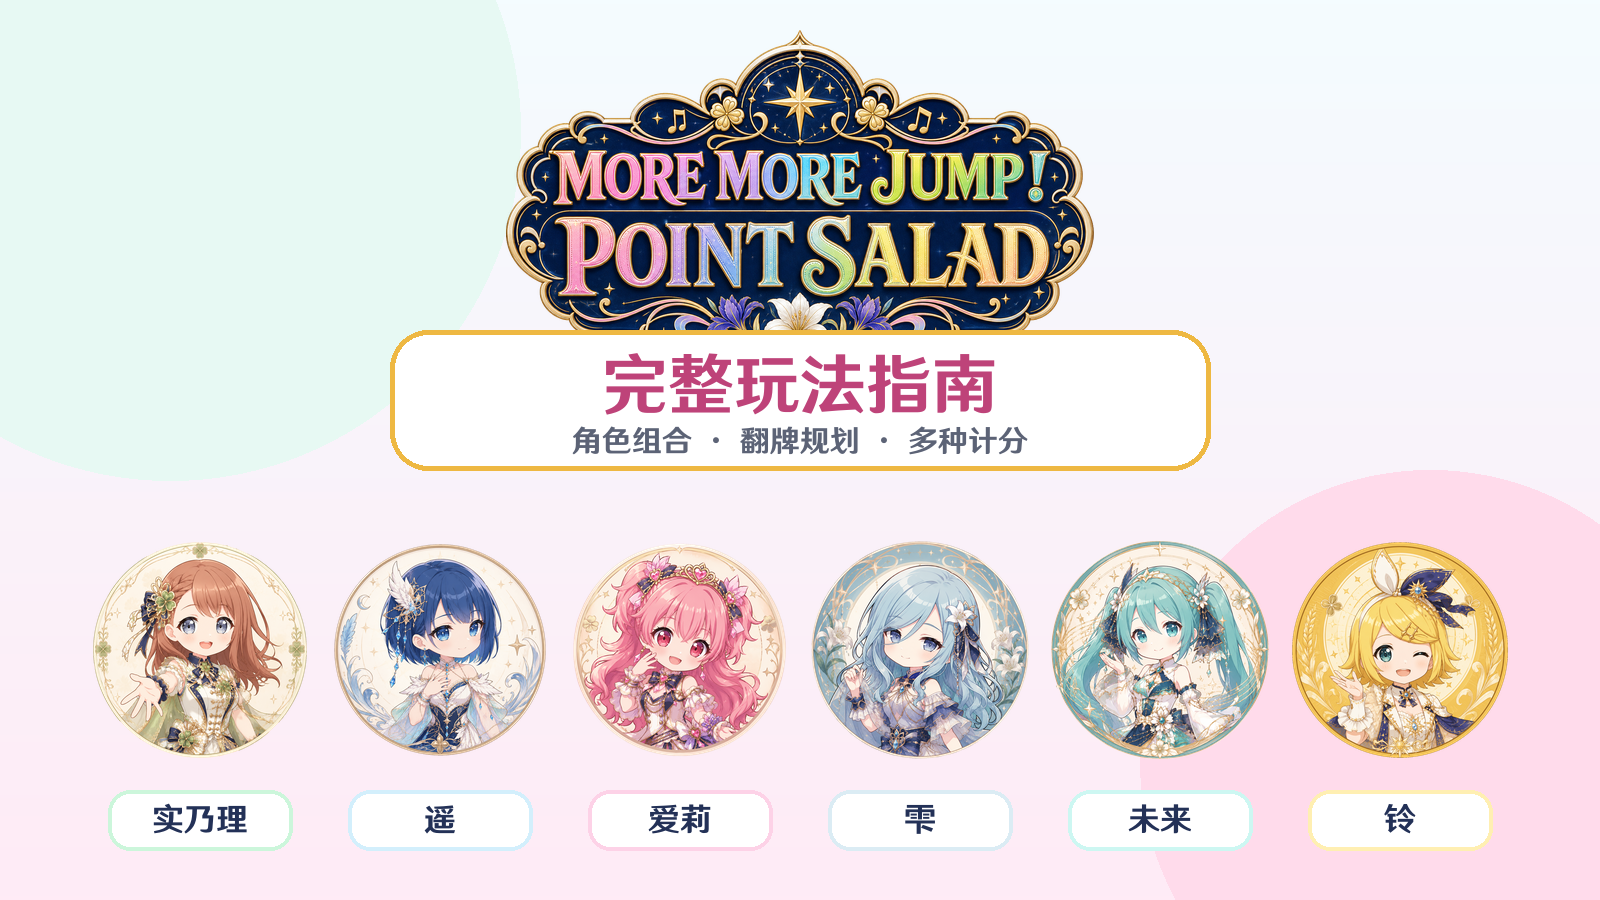
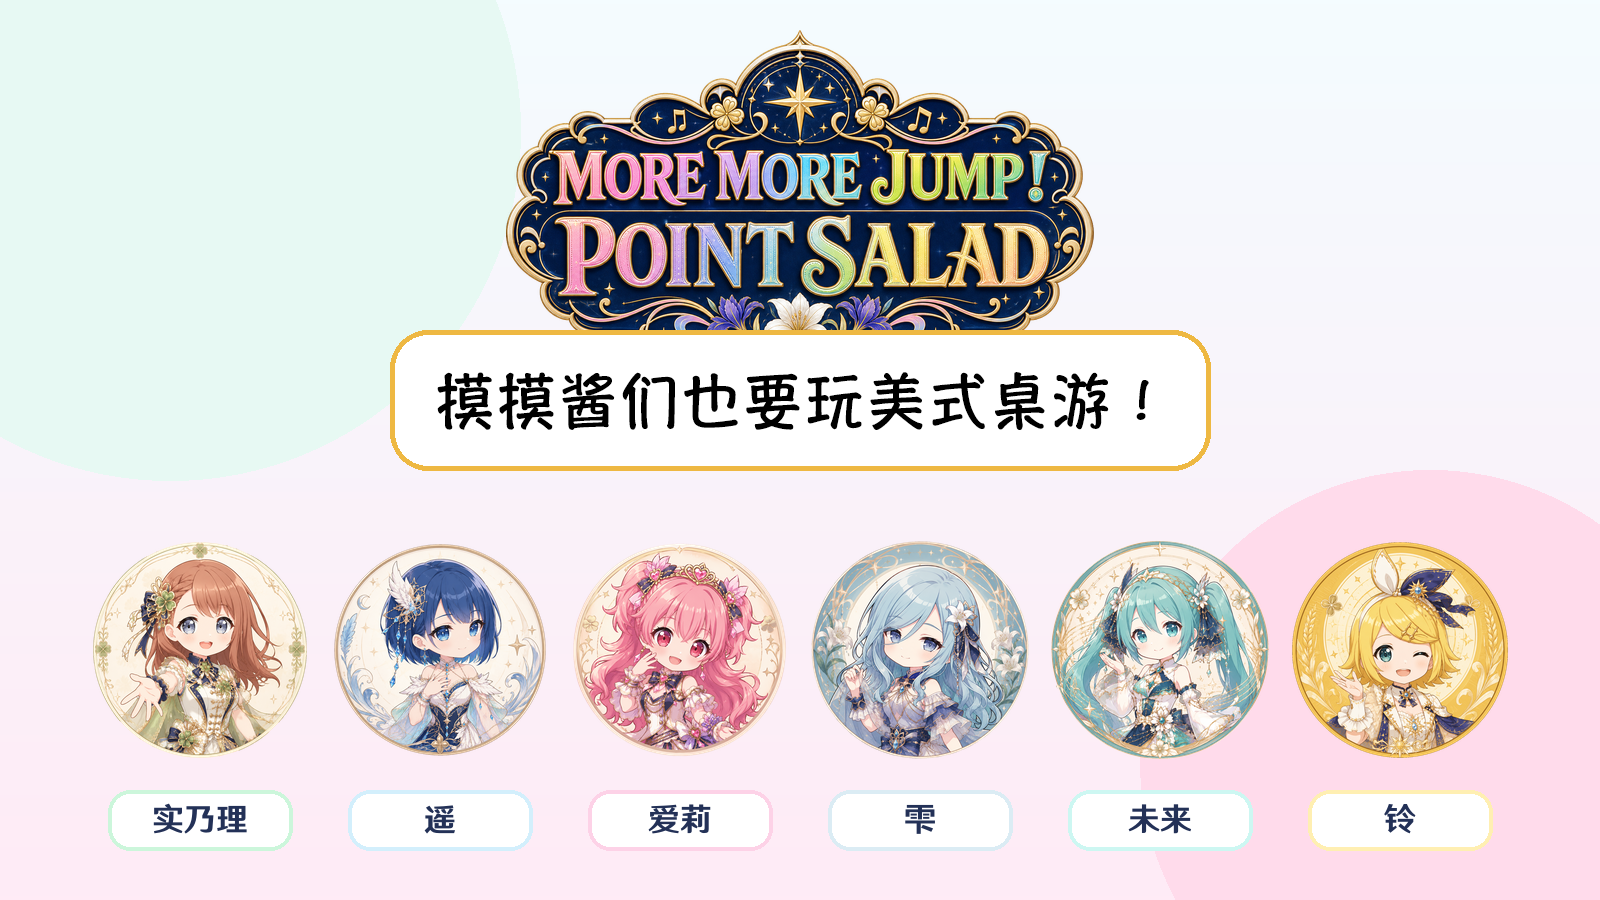
salad update

Changed region(s): [[0.25, 0.3733, 0.7188, 0.5289]]

diff --git a/plugins/airi_point_salad/help.py b/plugins/airi_point_salad/help.py
@@ -6,56 +6,60 @@ RULES_DOCUMENT_URL = "https://www.airi.asia/posts/aps_help/"
 
 
 def help_sections() -> tuple[tuple[str, str], ...]:
-    skill_lines = "；".join(
-        f"{'Airi' if character is Character.AIRI else character.short_name}："
+    skill_lines = "\n".join(
+        f"    ·{character.short_name}举例："
         f"{skill_usage(character)}"
         for character in Character
     )
     return (
         (
             "Airi-Point-Salad",
-            "🥬 MORE MORE JUMP！得分沙拉\n摸摸酱们也要玩美式桌游！",
+            "🥬 MMJ得分沙拉\n摸摸酱们也要玩美式桌游！",
         ),
         (
-            "官方基础与模式",
-            "适合 2–6 人在群聊中游玩的 Point Salad 主题实现。普通模式使用官方基础规则；"
-            "混合模式只在官方规则上加入一次性 Center 技能和公开 Live Mission。\n"
-            "快速和标准只改变牌量：快速每种角色抽入人数 × 2 张，标准为人数 × 3 张；"
-            "6 人标准局使用完整 108 张官方卡牌。\n"
-            "桌面有三叠独立牌库，每列顶部是公开计分牌，下方两张角色牌只从同列补充。"
-            "一叠清空时，从当前最大牌堆拆出下半部分建立新堆；最大堆并列时取较左一列。",
+            "游戏简介",
+            "🍀 游戏简介\n"
+            "这是一款适合 2–6 人在群聊中游玩的选牌桌游。\n"
+            "玩家轮流拿取角色牌或计分牌，通过角色组合、翻牌规划和不同计分条件积累分数，最后总分最高者获胜。",
         ),
         (
             "指令列表",
-            "所有指令必须以英文逗号 , 开头；英文命令不区分大小写。根命令：,沙拉 / ,salad / ,sl。\n"
-            "创建：创建/create/cr + 快速/quick/qk 或 标准/standard/std + 原版/classic/cl 或 混合/mix/mx。示例：,sl cr qk mx。\n"
-            "房间：加入/join/j（,sl j）、退出/leave/lv（,sl lv）、开始/start/st（,sl st）、结束/stop/sp（,sl sp）。\n"
-            "行动：拿/take/ta；计分牌 ,sl ta A；角色牌 ,sl ta A1 B2；翻牌 ,sl fl 2。\n"
-            f"混合模式技能：技能/skill/sk。{skill_lines}。实乃理完整三步示例："
-            ",sl sk → ,sl ta A1 B2 → ,sl sk A1 C2。\n"
-            "查看：桌面/board/bd（,sl bd）；规则/rules/rl（,sl rl）。",
+            "📖 指令列表\n"
+            "- 指令开头：,沙拉 / ,salad / ,sl\n"
+            "- 创建房间：\n"
+            "    创建/create/cr\n"
+            "    快速/quick/qk 或 标准/standard/std\n"
+            "    原版/classic/cl 或 混合/mix/mx\n"
+            "    *示例：,sl cr qk mx\n"
+            "- 房间操作：\n"
+            "    加入/join/j\n"
+            "    退出/leave/lv\n"
+            "    开始/start/st\n"
+            "    结束/stop/sp\n"
+            "- 回合操作：\n"
+            "    拿/take/ta\n"
+            "     ·拿一张计分牌：,sl ta A\n"
+            "     ·拿两张角色牌：,sl ta A1 B2\n"
+            "    翻/flip/fl\n"
+            "     ·示例：sl fl 2\n"
+            "- Center 技能：\n"
+            "    技能/skill/sk\n"
+            f"{skill_lines}\n"
+            "- 查看：\n"
+            "    桌面/board/bd\n"
+            "    规则/rules/rl"
         ),
         (
-            "回合与官方计分",
-            "每回合必须选择一项主行动：拿一张 A/B/C 列顶部计分牌，或拿两张 A1–C2 角色牌；"
-            "残局不足两张角色牌时拿走全部。每列空位只从同列牌库补牌。\n"
-            "每回合最多永久翻一张自己的计分牌。可以在主行动前翻，也可以在行动后、下一名玩家首次有效动作前翻，"
-            "所以本回合刚拿到的计分牌也能翻面。查看桌面、查看帮助和失败操作不会关闭行动后窗口。\n"
-            "十二类官方计分涵盖：最多、最少、奇偶、线性加减、同角色两张、同角色三张、指定组合、"
-            "缺少种类、达到数量的种类、角色总数最少、角色总数最多、完整六种套组。比较类并列者都得分。",
-        ),
-        (
-            "终局、扩展与文档",
-            "三叠牌库与六个市场位置全部清空后结束。总分并列时，最后完成主行动的行动顺序较晚者排名更高。\n"
-            "Center 和 Live Mission 仅在混合模式开放；Center 每局只能成功使用一次，Live Mission 每回合最多领取一项。\n"
-            "大厅 15 分钟、对局 30 分钟内没有有效操作会自动关闭；查看桌面和帮助不会刷新计时。\n"
-            f"完整图解玩法：{RULES_DOCUMENT_URL}",
+            "桌游玩法文档",
+            "📚 桌游玩法文档\n"
+            "网页版指南更加适合新手宝宝:\n"
+            f"{RULES_DOCUMENT_URL}",
         ),
         (
             "版权信息",
             "AiriCore 采用 MIT License\n"
-            "Powered By AiriCore Dev.\n\n"
-            "Point Salad 原作及 MORE MORE JUMP！、世界计划相关名称、角色与美术素材的权利归各自权利人所有。"
-            "本插件为非官方同人实现，与原权利方无隶属或授权关系。",
+            "Powered By AiriCore Dev.\n"
+            "Point Salad 原作及 MORE MORE JUMP！、世界计划相关名称、角色与美术素材的权利归各自权利人所有\n"
+            "本插件为非官方同人实现，与原权利方无隶属或授权关系",
         ),
     )

diff --git a/plugins/airi_point_salad/skills.py b/plugins/airi_point_salad/skills.py
@@ -67,7 +67,7 @@ def _arm(state, player, args, kind, now):
     if state.pending_skill:
         raise GameError("已有待完成的技能操作")
     if kind == "airi_armed" and state.turn_flips:
-        raise GameError("本回合已经翻过牌，不能再发动 Airi 技能")
+        raise GameError("本回合已经翻过牌，不能再发动爱莉的技能")
     close_post_flip_window(state, player.user_id)
     state.pending_skill = {"kind": kind, "user_id": player.user_id}
     state.updated_at = now
